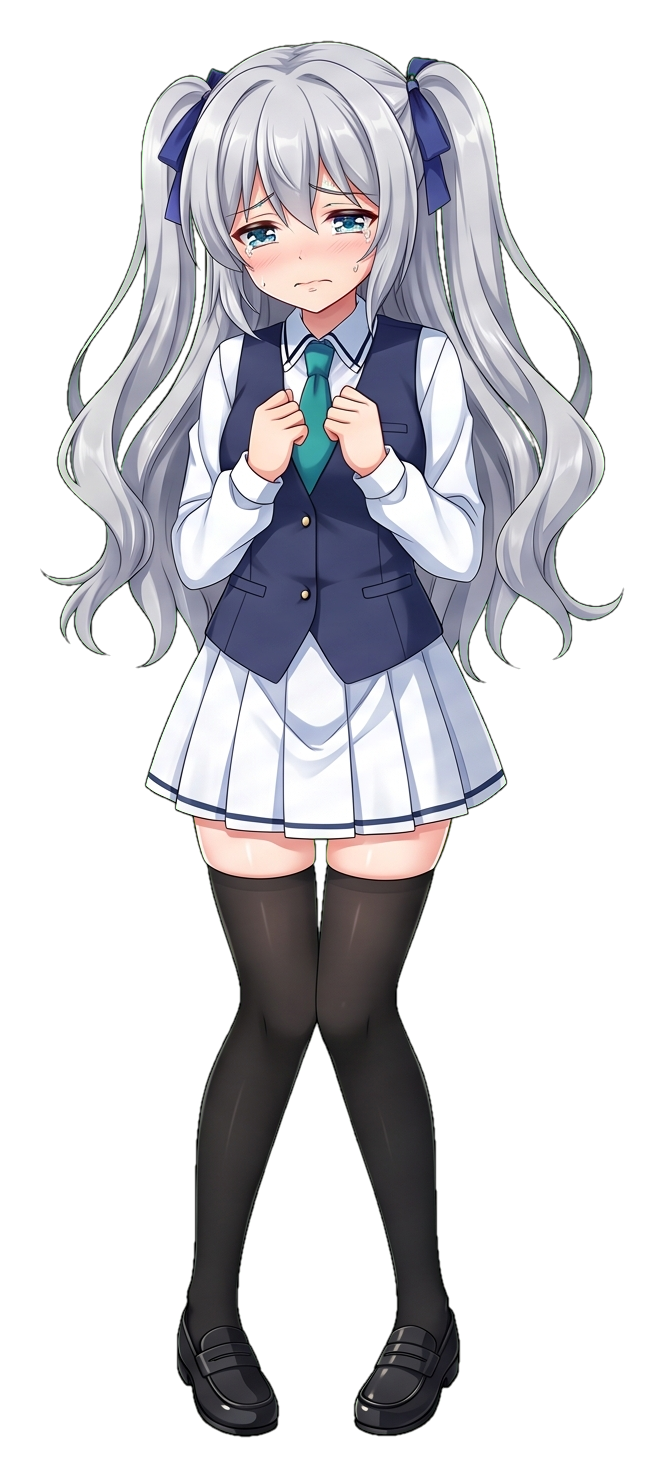
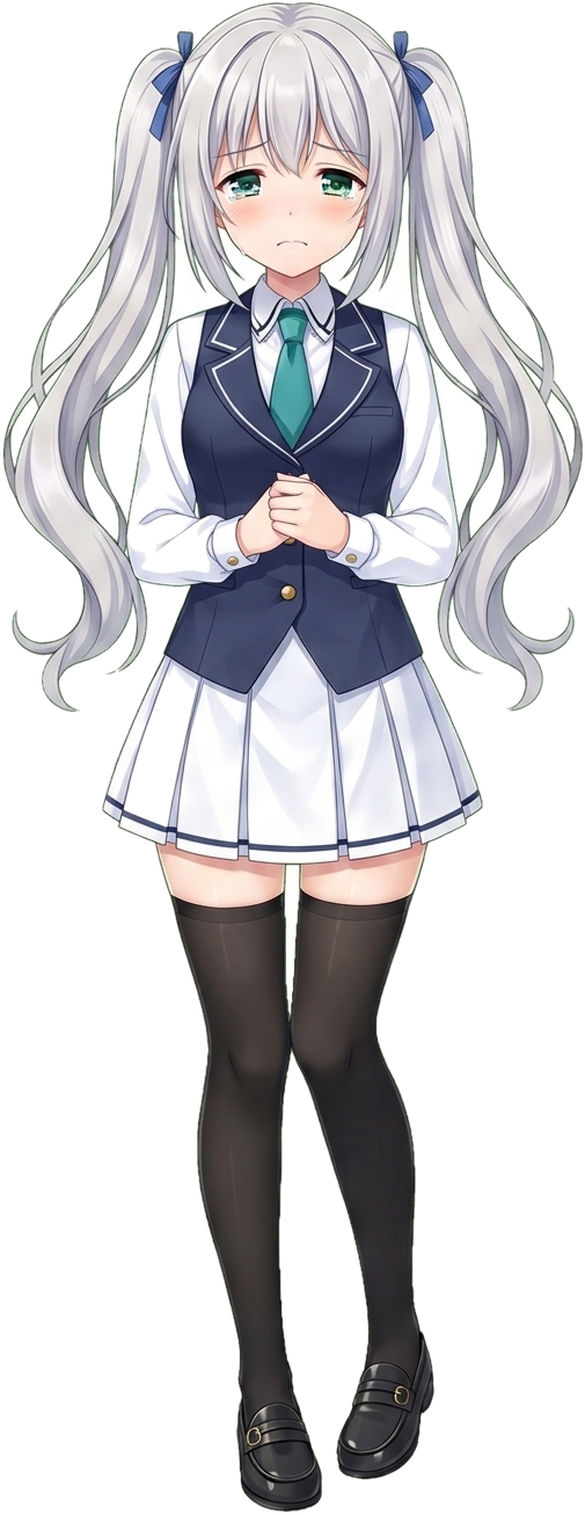
fix: 重新生成並修正 AI 助理 Sad 與 Shy 的立繪髮型與眼眸特徵

diff --git a/docs/PERSONA_SPRITES_REFINEMENT.md b/docs/PERSONA_SPRITES_REFINEMENT.md
@@ -1,0 +1,45 @@
+# AI 助理形象立繪統一與修正說明 (Sad & Shy 表情修復)
+
+## 1. 修正背景 (Background)
+在 AI 助理（萬能助理）的立繪表情系統中，使用者發現：
+- **`Sad`（難過 / 沮喪）** 與 **`Shy`（害羞 / 傲嬌）** 的立繪髮型與其餘表情（如 `default`、`happy`、`angry`、`thinking`）存在明顯不一致：
+  - **害羞 (`Shy`)**：原先的瀏海為厚重齊平的一刀切平瀏海，且後腦勺散落了大面積披肩長髮（變成半雙馬尾+散披髮）。
+  - **難過 (`Sad`)**：背後同樣有一整圈長厚披髮，且眼眸色彩錯誤變成了藍色（預設為翡翠綠色）。
+
+為了保持角色在對話互動與情緒切換時的**視覺連貫性與真實感**，本次重新生成並修復了這兩款表情立繪。
+
+---
+
+## 2. 修正內容與設計規範 (Refinements)
+
+### 2.1 髮型與特徵嚴格統一
+- **高雙馬尾 (Twin-tails)**：保留兩側以深藍色蝴蝶結高高束起的銀白雙馬尾，向兩側自然延伸垂墜至腰間。
+- **後頸乾淨 (Clean Nape)**：完全移除背部散落披肩的多餘長髮，使雙馬尾造型俐落乾淨。
+- **自然碎瀏海 (Soft Bangs)**：恢復前額自然分撮、略顯微弧度的日系輕盈瀏海，修飾臉型。
+- **翡翠綠眼眸 (Emerald Green Eyes)**：統一所有表情的瞳孔顏色為清澈明亮的翡翠綠動漫大眼。
+
+### 2.2 表情與姿態細節對比
+
+| 表情名稱 | 修正前問題 | 修正後姿態與特徵 |
+| :--- | :--- | :--- |
+| **害羞 (`Shy`)** | 厚重平瀏海、背後大片散髮 | 內八膝蓋微屈害羞站姿，雙手靦腆抓著百褶裙擺，臉部泛起嬌羞紅暈，標準雙馬尾與自然瀏海 |
+| **難過 (`Sad`)** | 背後厚重披髮、藍色眼睛 | 雙手在胸前交疊微握，低頭楚楚可憐、眼泛淚光的翡翠綠眼眸，表情委屈柔弱，標準雙馬尾 |
+
+---
+
+## 3. 技術處理流程 (Technical Workflow)
+
+1. **AI 參考生成**：以 `assistant_default.png` 作為核心架構與服裝參考圖，確保身高、校服款式（深藍背心、白襯衫、青綠領帶、白百褶裙、黑過膝襪、黑皮鞋）百分之百一致。
+2. **無損去背與抗鋸齒**：
+   - 採用邊界連通泛洪（Flood Fill）演算法去除外部純白背景，完整保留白襯衫與白裙等內部白色細節。
+   - 使用輕微高斯模糊對 Alpha 遮罩邊緣進行抗鋸齒（Anti-aliasing）柔化處理，確保立繪邊緣無生硬白邊或黑線。
+3. **高精準對齊**：
+   - 裁切並精確縮放至高 `1515px`，與預設立繪頭頂與腳底位置精準對齊，切換表情時無垂直或水平抖動。
+   - 完美吻合 `data/personas.json` 中配置的觸碰互動熱區（Touch Zones）。
+
+---
+
+## 4. 驗證結果 (Verification)
+- 透過瀏覽器實機測試：
+  - 於「立繪表情管理庫」預覽切換 `shy`、`sad` 與 `default`，立繪皆正常切換、髮型輪廓完全一致、動作自然生動。
+- 相關立繪檔案已更新覆蓋至 `data/avatars/assistant_shy.png` 與 `data/avatars/assistant_sad.png`。
